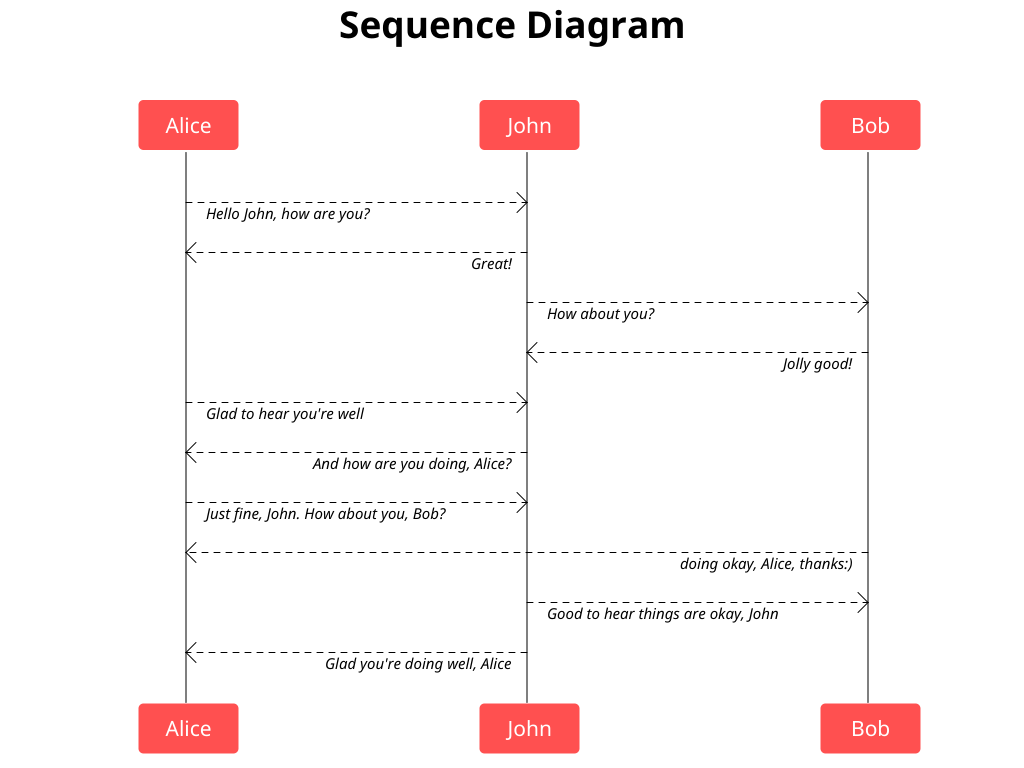
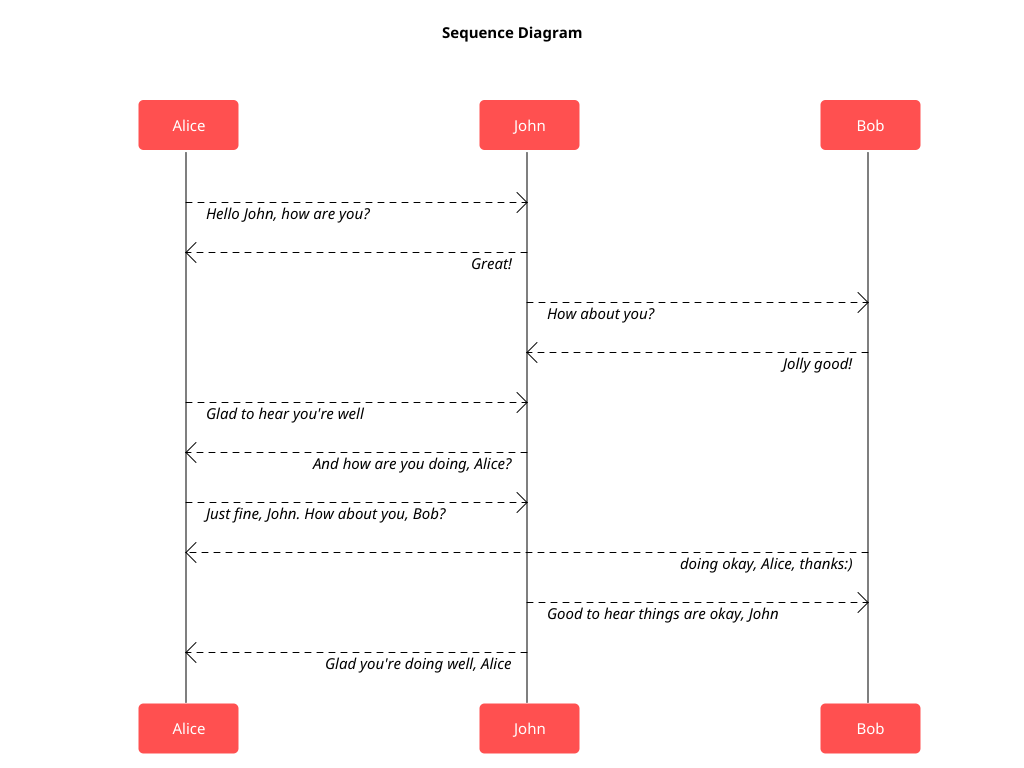
Set default font size to 15, just in case...

diff --git a/cmd/zml_cli/zml_cli.go b/cmd/zml_cli/zml_cli.go
@@ -108,23 +108,30 @@ func main() {
 			dia.SetDebug(true)
 		}
 		dia.SetFontDir(fontDir)
+		fontSize := 15.00
 		if titleFont != "" {
 			titleFontAttribs := strings.Split(titleFont, ",")
-			fontSize, _ := strconv.ParseFloat(titleFontAttribs[1], 64)
+			if len(titleFontAttribs) > 1 {
+				fontSize, _ = strconv.ParseFloat(titleFontAttribs[1], 64)
+			}
 			if err == nil {
 				dia.SetTitleFont(zml.Font{Name: titleFontAttribs[0], Size: fontSize})
 			}
 		}
 		if labelFont != "" {
 			labelFontAttribs := strings.Split(labelFont, ",")
-			fontSize, _ := strconv.ParseFloat(labelFontAttribs[1], 64)
+			if len(labelFontAttribs) > 1 {
+				fontSize, _ = strconv.ParseFloat(labelFontAttribs[1], 64)
+			}
 			if err == nil {
 				dia.SetLabelFont(zml.Font{Name: labelFontAttribs[0], Size: fontSize})
 			}
 		}
 		if elementFont != "" {
 			elementFontAttribs := strings.Split(elementFont, ",")
-			fontSize, _ := strconv.ParseFloat(elementFontAttribs[1], 64)
+			if len(elementFontAttribs) > 1 {
+				fontSize, _ = strconv.ParseFloat(elementFontAttribs[1], 64)
+			}
 			if err == nil {
 				dia.SetElementLabelFont(zml.Font{Name: elementFontAttribs[0], Size: fontSize})
 			}
